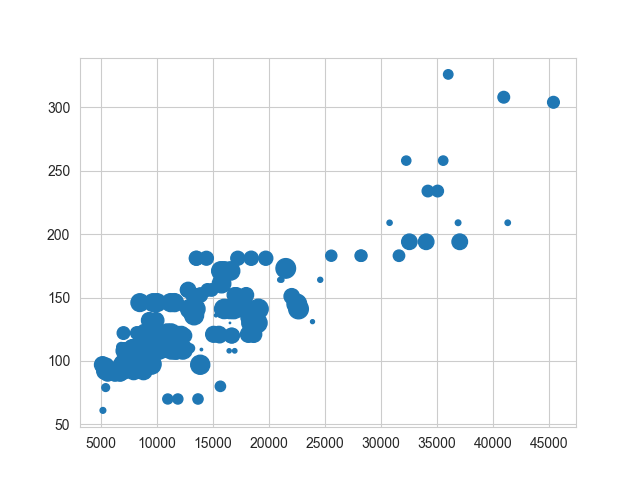
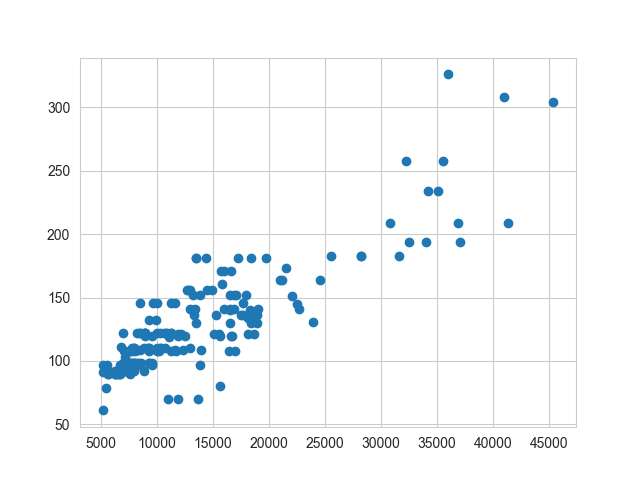
update task_040222

diff --git a/february/task_040222/classwork_040222_Cagulis.py b/february/task_040222/classwork_040222_Cagulis.py
@@ -55,18 +55,18 @@ def graph_plot():
 	# korealācija novērojama starp kolonnām [length,width,wheel-base] un [engine-size,price,horsepower]
 	# noderīga ir otrā korelācija, jo tā atklāj to savstarpējo ietekmi
 
-	# MatPlotLib heatmap veido korealāciju starp datiem savstarpēji salīdzinot to vērtības un norādot iegūtos koeficientus
-	# Seaborn heatmap veido korealāciju starp datu vērtībām pēc pašnoteiktas korealācijas skalas.
+	# matplotlib heatmap veido korealāciju starp datiem savstarpēji salīdzinot to vērtības un norādot iegūtos koeficientus
+	# seaborn heatmap veido korealāciju starp datu vērtībām pēc pašnoteiktas korealācijas skalas
 
 	sns.displot(data["price"])
 	plt.savefig("plot2.png")
 	plt.show()
 
-	plt.scatter(data["price"], data["engine-size"], list(range(0, len(data))))
+	plt.scatter(data["price"], data["engine-size"])
 	plt.savefig("plot3.png")
 	plt.show()
 
-	sns.scatterplot(data["price"], data["engine-size"], list(range(0, len(data))))
+	sns.scatterplot(data["price"], data["engine-size"])
 	plt.savefig("plot4.png")
 	plt.show()
 
